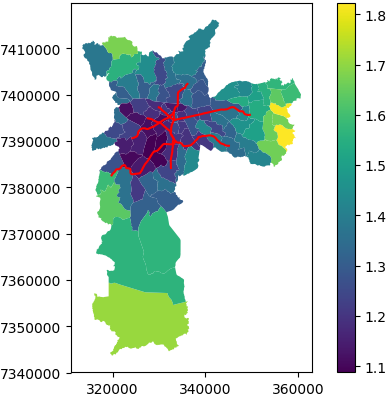
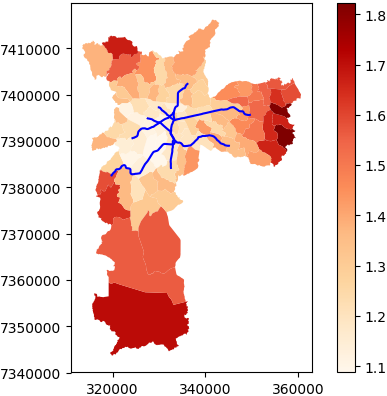
colors

Changed region(s): [[0.2171, 0.0303, 0.7752, 0.9091], [0.8682, 0.0, 0.9302, 0.9394]]

diff --git a/src/shape.py b/src/shape.py
@@ -5,6 +5,7 @@ import pandas as pd
 import csv
 import unidecode
 import math
+import seaborn as sns
 
 def calculate_weighted_mean(data):
     data['FE_VIA'] = data['FE_VIA'].apply(lambda x: 1 if math.isnan(x) else x)
@@ -38,6 +39,9 @@ modos17 = {0:'outros',1:'metro',2:'trem',3:'metro',4:'onibus',5:'onibus',6:'onib
 coletivo = ['onibus','trem','metro']
 privado = ['carro-dirigindo','moto','bicicleta','taxi']
 
+motorizado = ['onibus','trem','metro', 'carro-dirigindo','moto','taxi']
+nao_motorizado = ['bicicleta', 'pe']
+
 data17['MODOPRIN'] = data17['MODOPRIN'].replace(modos17)
 data17 = data17[data17['MODOPRIN'].isin(coletivo + privado)] 
 
@@ -64,19 +68,21 @@ df = df[df['MUNI_O'] == 36]
 
 fig, ax = plt.subplots(1, 1)
 
-df.plot(column='NUM_TRANS', ax=ax, legend=True)
-metro.plot(ax=ax, color='red')
+df.plot(column='NUM_TRANS', ax=ax, legend=True, cmap='OrRd')
+metro.plot(ax=ax, color='blue')
 plt.savefig(folder_images_maps + 'num_integracoes.png', bbox_inches='tight', pad_inches=0.0)
 
 plt.clf()
 
-plt.scatter(df.MEDIA, df.RENDA_FA)
+lm = sns.lmplot(x='MEDIA',y='RENDA_FA',data=df,fit_reg=True) 
+axes = lm.axes
+axes[0,0].set_ylim(0,)
 plt.savefig(folder_images_maps + 'scatter_renda_tempo.png', bbox_inches='tight', pad_inches=0.0)
 
 plt.clf()
 
-data17_coletivo = data17[data17['MODOPRIN'].isin(['onibus'])] 
-data17_privado = data17[data17['MODOPRIN'].isin(privado + coletivo)] 
+data17_coletivo = data17[data17['MODOPRIN'].isin(coletivo)] 
+data17_privado = data17[data17['MODOPRIN'].isin(privado)] 
 
 data17_coletivo = data17_coletivo[['NOME_O', 'FE_VIA']].groupby(['NOME_O']).mean().sort_values(by=['FE_VIA']).reset_index()
 data17_coletivo = data17_coletivo.set_index('NOME_O')
@@ -90,7 +96,40 @@ df['por_privado'] = df['FE_VIA_privado'] / (df['FE_VIA_coletivo'] + df['FE_VIA_p
 df = df[df['MUNI_O'] == 36]
 
 fig, ax = plt.subplots(1, 1)
-metro.plot(ax=ax, color='red')
-
-df.plot(column='por_coletivo', ax=ax, legend=True)
+metro.plot(ax=ax, color='blue')
+df.plot(column='por_coletivo', ax=ax, legend=True, cmap='OrRd')
 plt.savefig(folder_images_maps + 'porcentagem_coletivo.png', bbox_inches='tight', pad_inches=0.0)
+
+
+fig, ax = plt.subplots(1, 1)
+metro.plot(ax=ax, color='blue')
+df.plot(column='por_privado', ax=ax, legend=True, cmap='OrRd')
+plt.savefig(folder_images_maps + 'porcentagem_privado.png', bbox_inches='tight', pad_inches=0.0)
+
+
+
+
+
+data17_motorizado = data17[data17['MODOPRIN'].isin(motorizado)] 
+data_nao_motorizado = data17[data17['MODOPRIN'].isin(nao_motorizado)] 
+
+data17_motorizado = data17_motorizado[['NOME_O', 'FE_VIA']].groupby(['NOME_O']).mean().sort_values(by=['FE_VIA']).reset_index()
+data17_motorizado = data17_motorizado.set_index('NOME_O')
+
+data_nao_motorizado = data_nao_motorizado[['NOME_O', 'FE_VIA']].groupby(['NOME_O']).mean().sort_values(by=['FE_VIA']).reset_index()
+data_nao_motorizado = data_nao_motorizado.set_index('NOME_O')
+
+df = mapa.set_index('NomeDistri').join(data17_motorizado).join(data_nao_motorizado,lsuffix='_motorizado', rsuffix='_nao_motorizado').join(data_mp)
+df['por_motorizado'] = df['FE_VIA_motorizado'] / (df['FE_VIA_motorizado'] + df['FE_VIA_nao_motorizado'])
+df['por_nao_motorizado'] = df['FE_VIA_nao_motorizado'] / (df['FE_VIA_motorizado'] + df['FE_VIA_nao_motorizado'])
+df = df[df['MUNI_O'] == 36]
+
+fig, ax = plt.subplots(1, 1)
+metro.plot(ax=ax, color='blue')
+df.plot(column='por_motorizado', ax=ax, legend=True, cmap='OrRd')
+plt.savefig(folder_images_maps + 'porcentagem_motorizado.png', bbox_inches='tight', pad_inches=0.0)
+
+fig, ax = plt.subplots(1, 1)
+metro.plot(ax=ax, color='blue')
+df.plot(column='por_nao_motorizado', ax=ax, legend=True, cmap='OrRd')
+plt.savefig(folder_images_maps + 'porcentagem_nao_motorizado.png', bbox_inches='tight', pad_inches=0.0)
